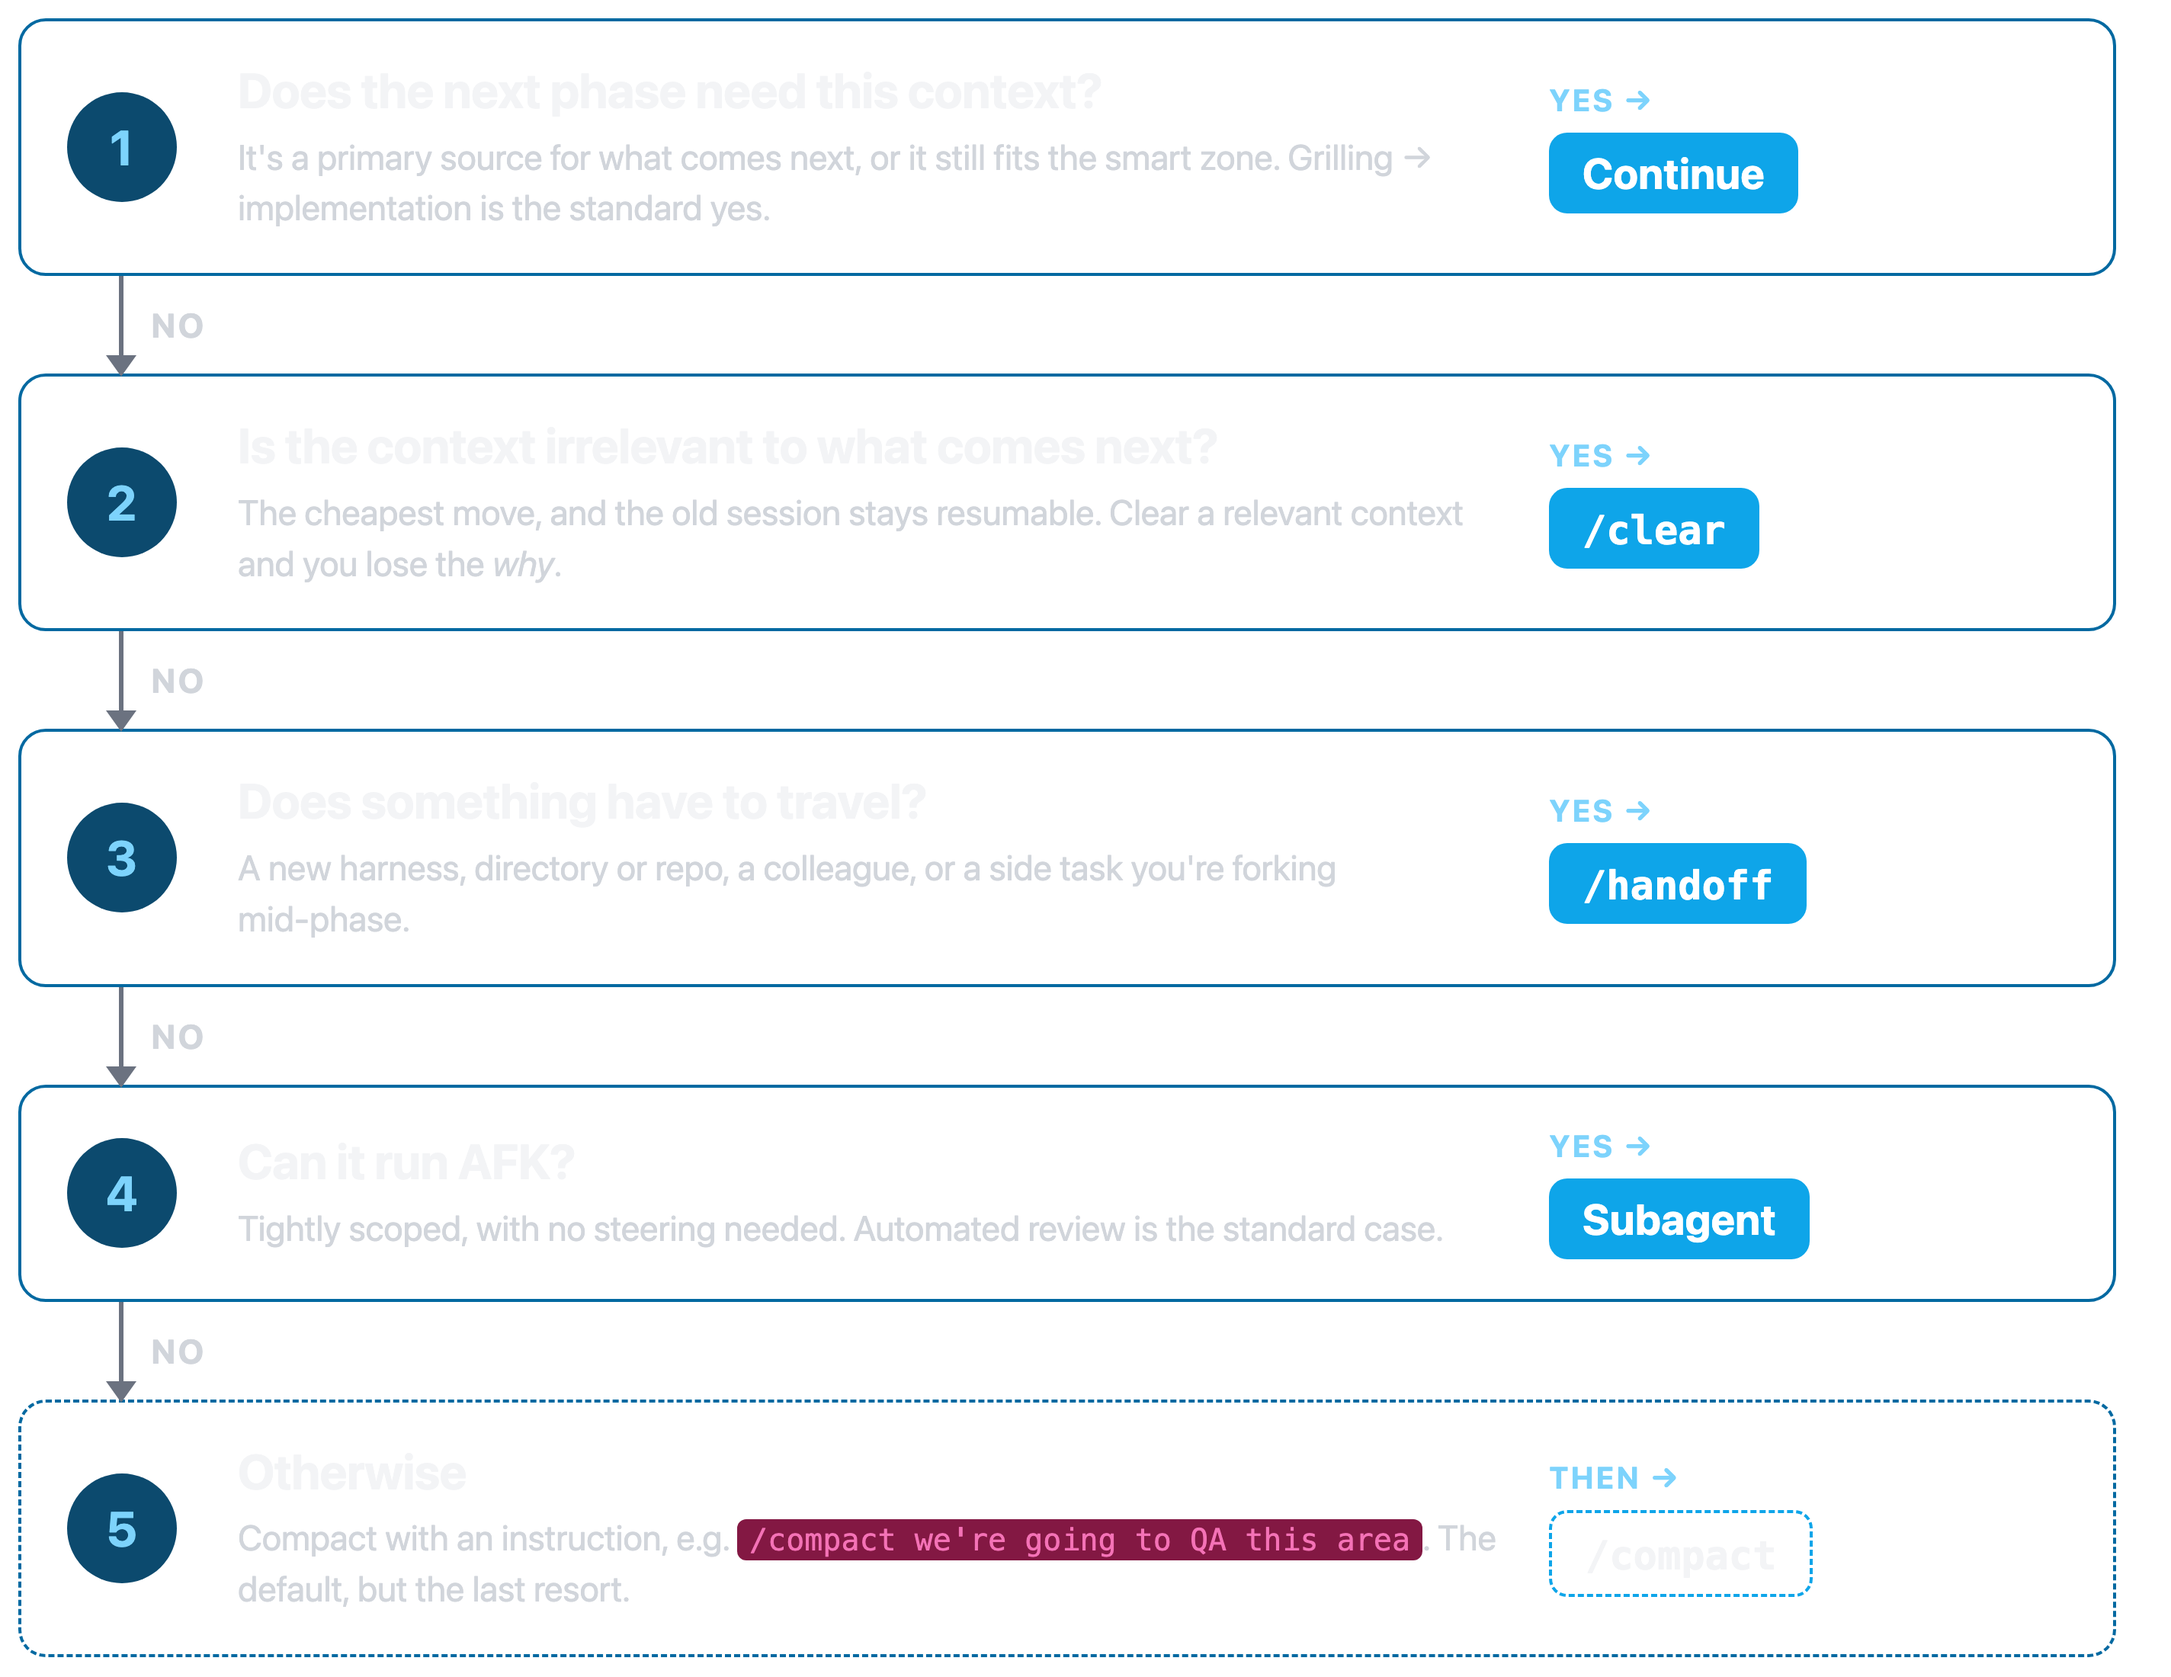
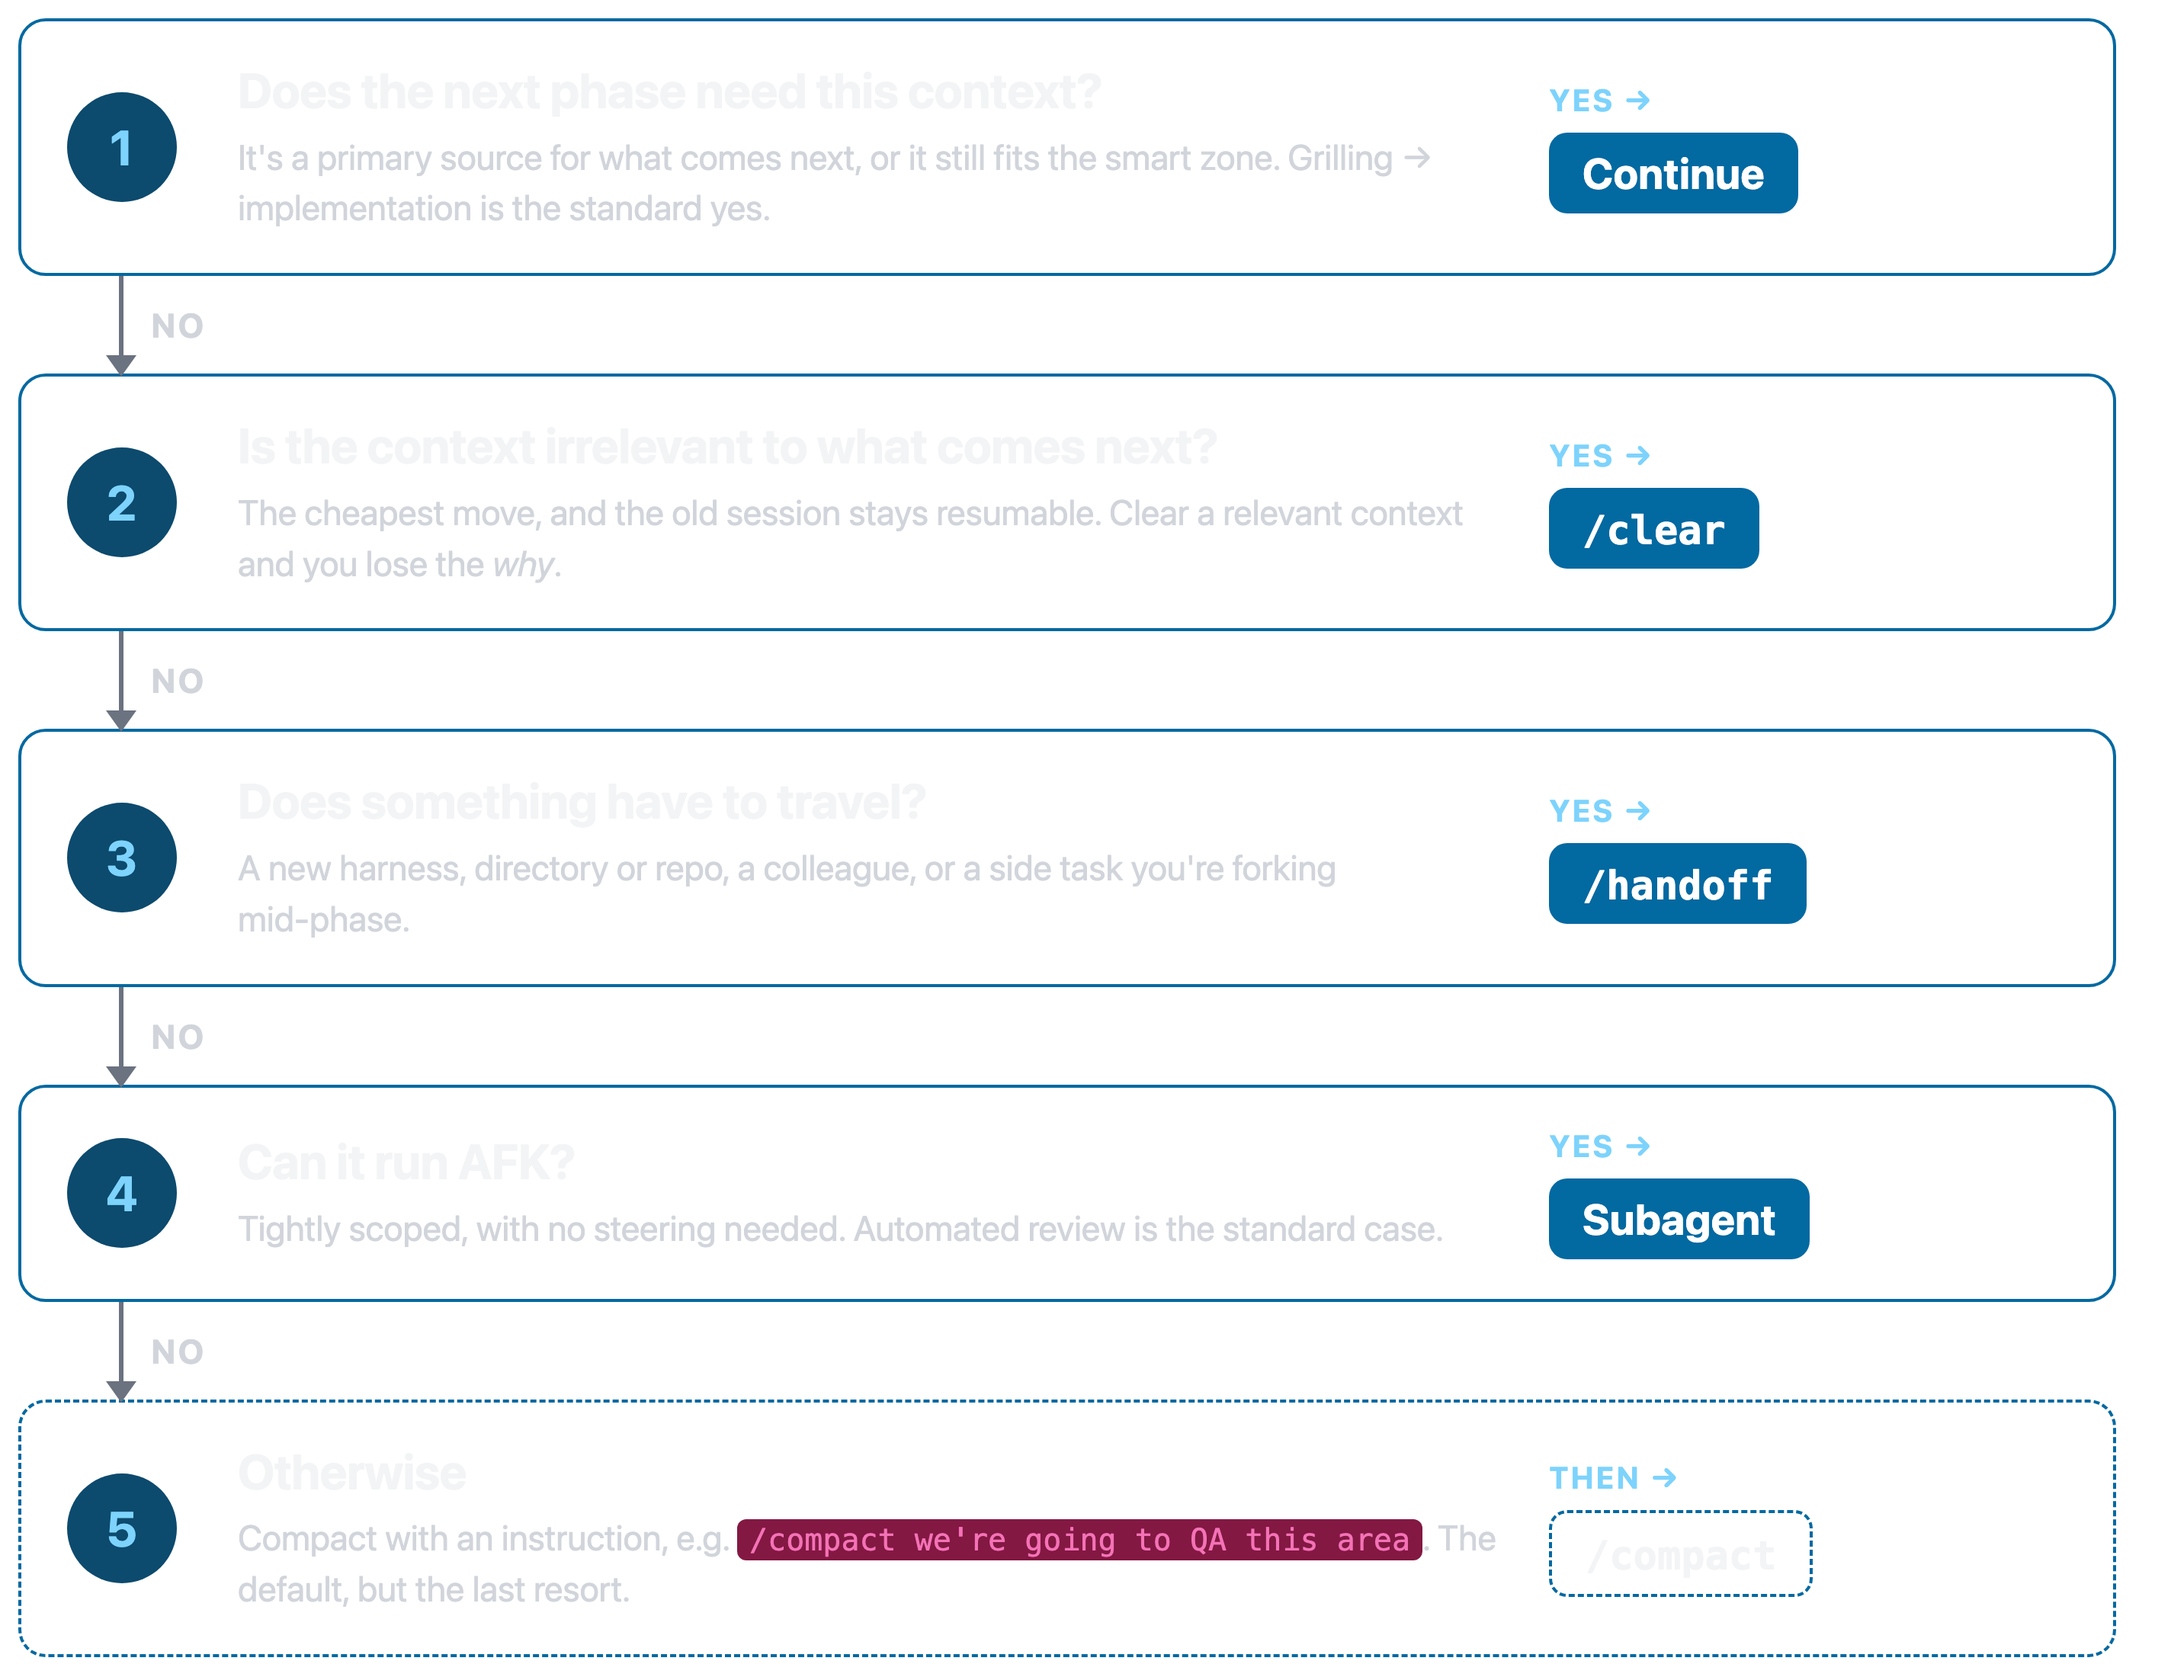
Fix PR review feedback
Address reviewer comments:
- Darken the dark-theme outcome pill (--primary-strong #0EA5E9 -> #0369A1)
  so bold white text clears 3:1 (now 5.93:1); re-render the dark
  phase-boundary diagram with the same token

diff --git a/.claude/skills/diagram-images/templates/decision-ladder.html b/.claude/skills/diagram-images/templates/decision-ladder.html
@@ -30,7 +30,7 @@
     --text: #F3F4F6;
     --text-2: #D1D5DB;
     --primary: #38BDF8;
-    --primary-strong: #0EA5E9;
+    --primary-strong: #0369A1;
     --primary-soft: #0C4A6E;
     --primary-soft-text: #7DD3FC;
     --accent: #F472B6;
